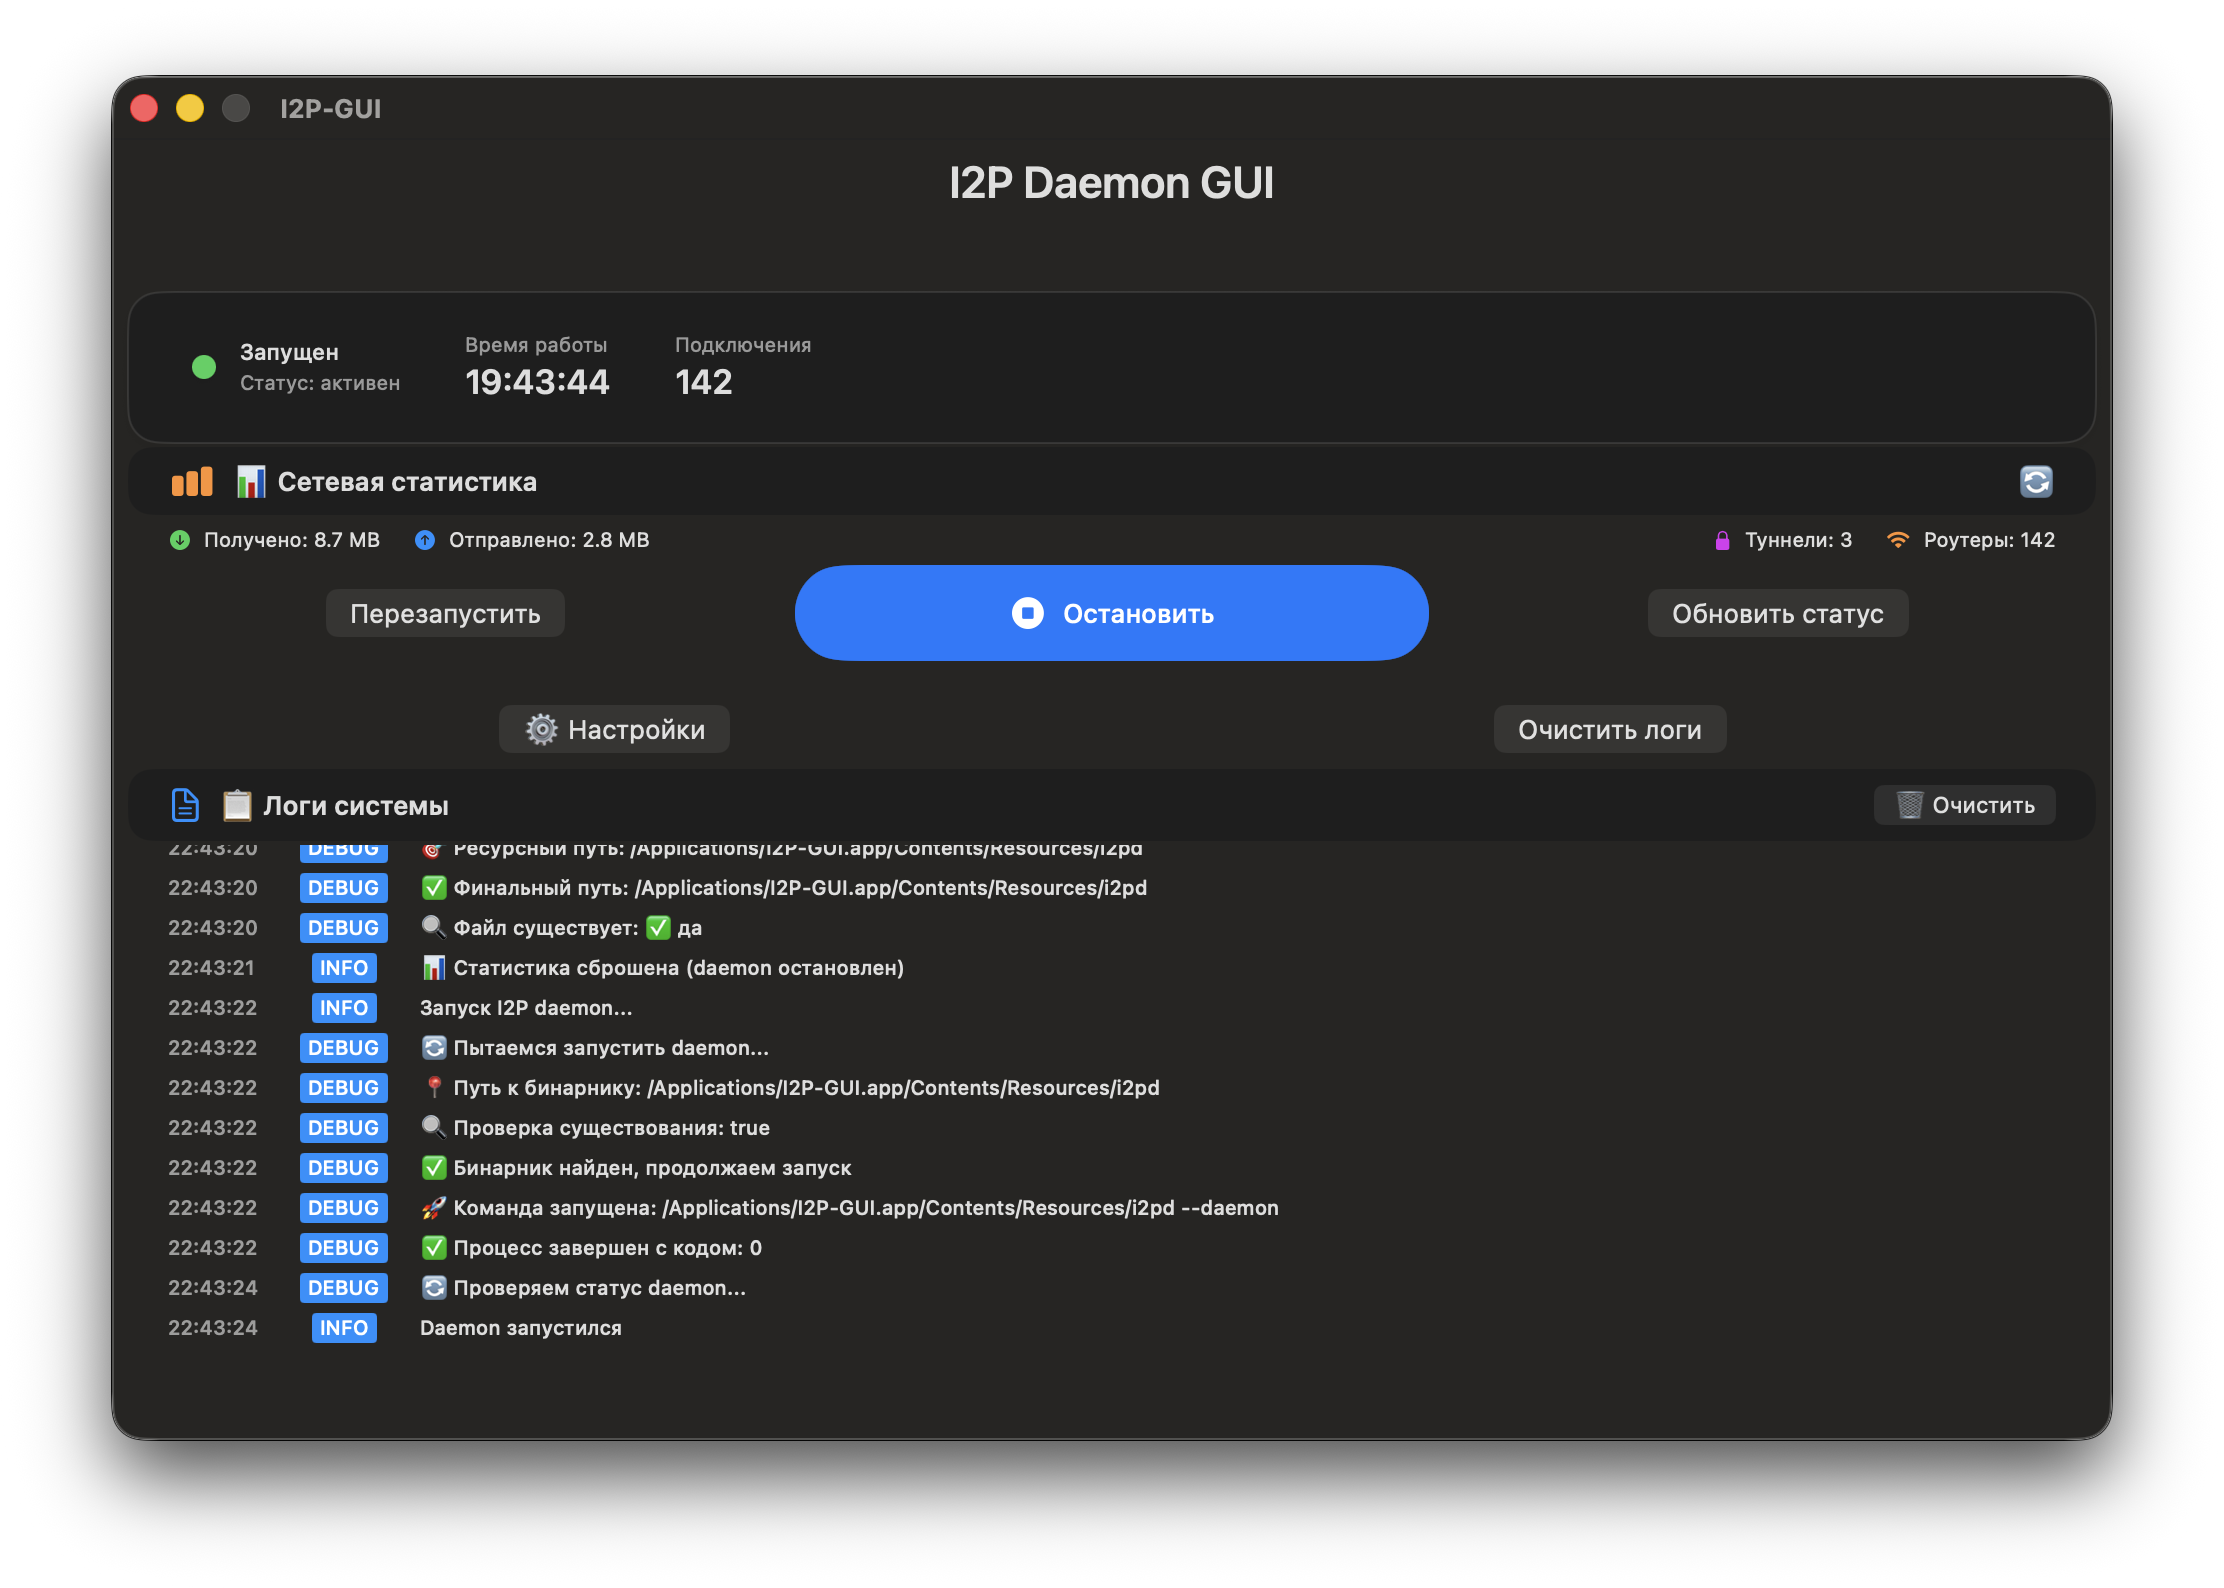
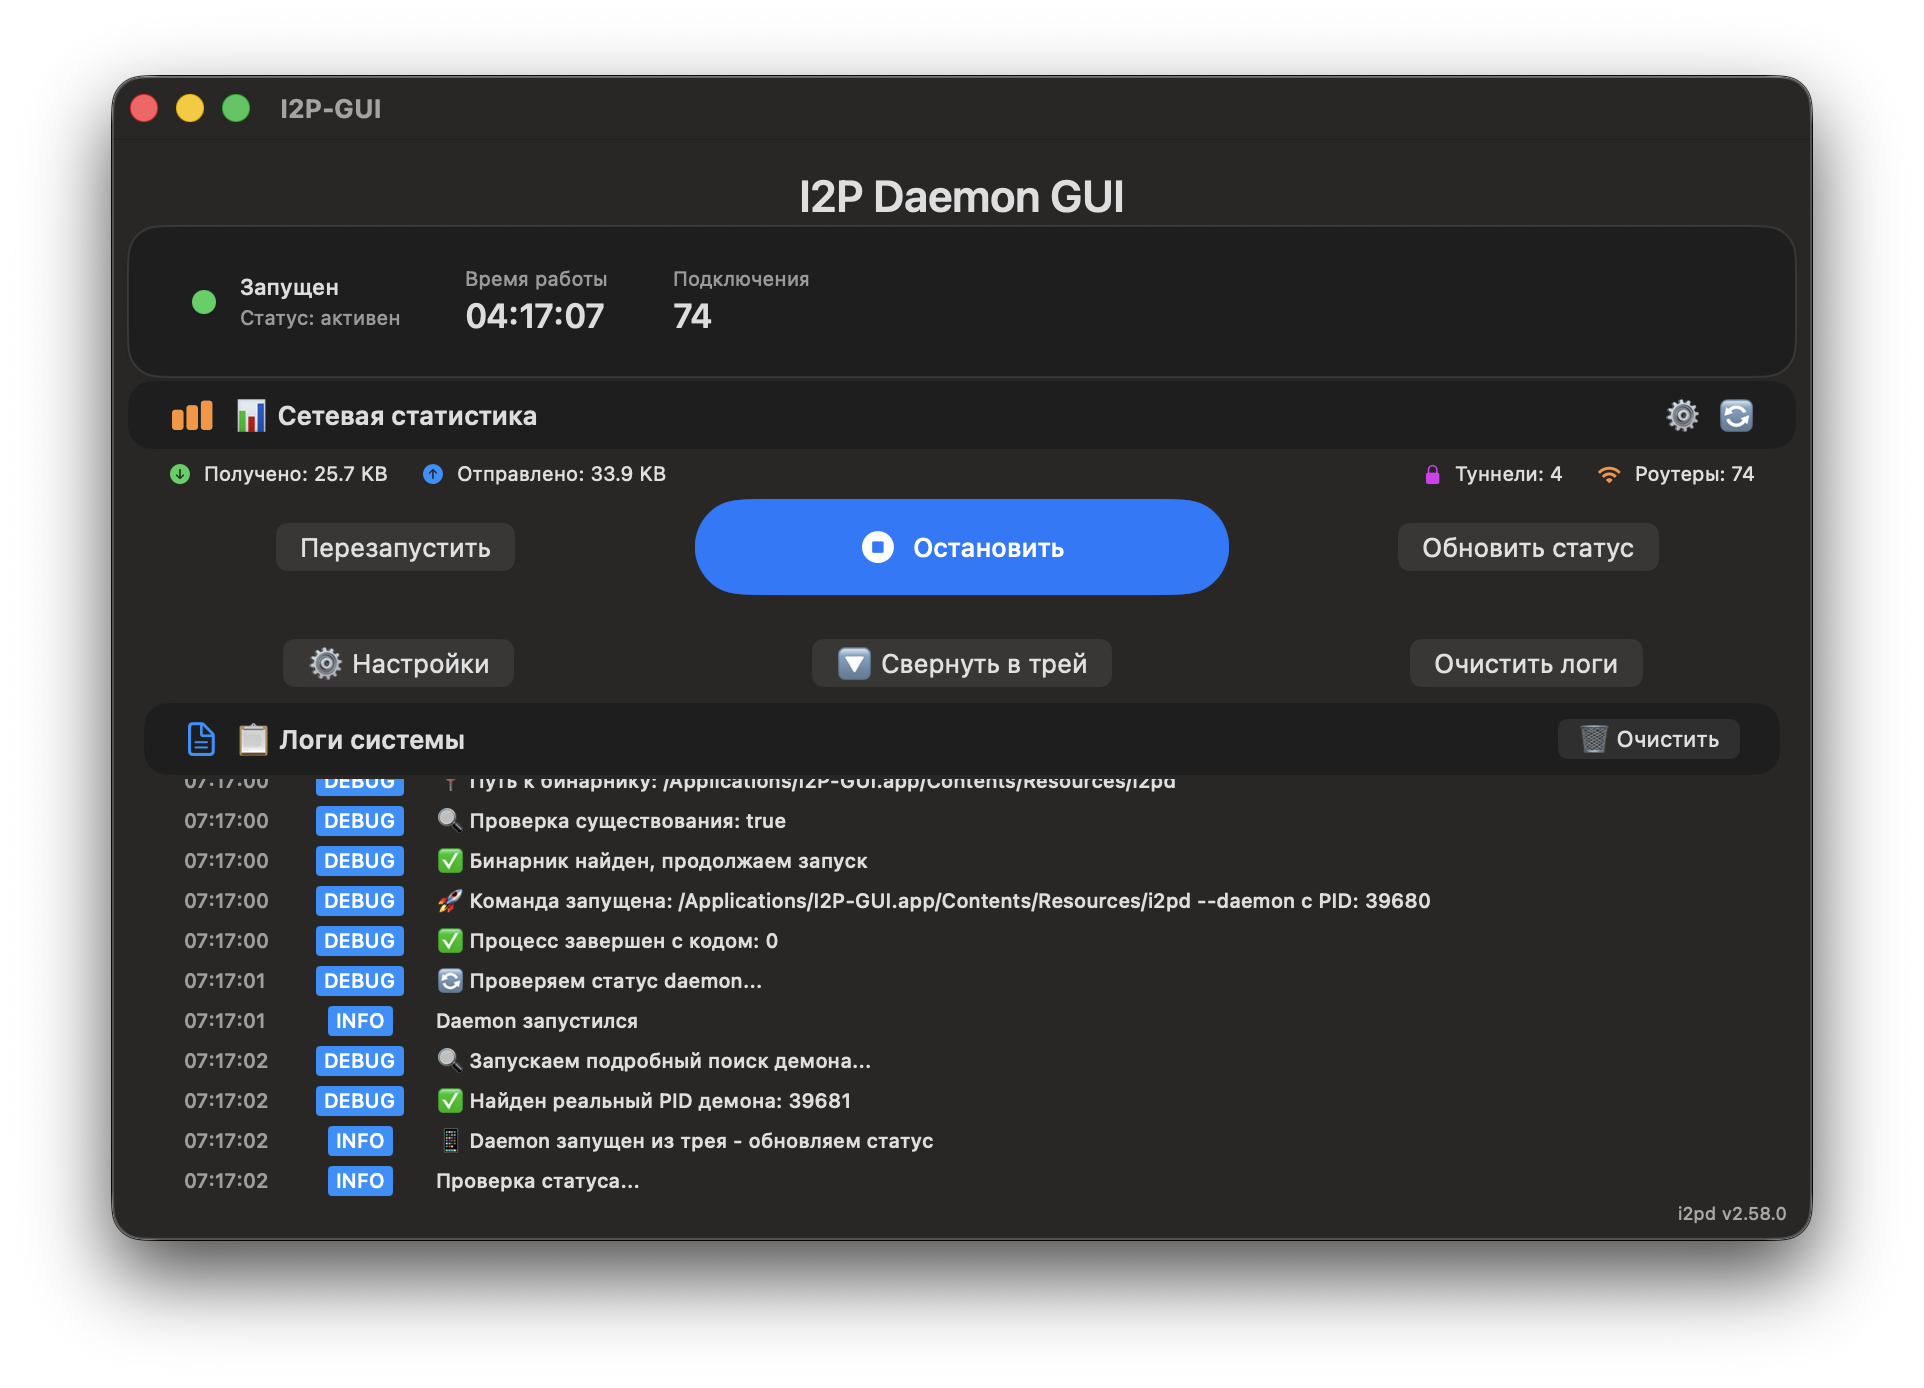
🎨 Адаптивный дизайн и улучшения UI
✅ Функциональные улучшения:
• Добавлены GitHub ссылки в настройки
• Исправлено переключение тем (мгновенное)
• Убрана секция 'О программе' (дублировала версию)
• Версия демона вынесена в футер основного окна

🎨 Дизайн и адаптивность:
• Окно стало адаптивным (800-850px ширина)
• Убрано фиксированное позиционирование
• Оптимизированы размеры для разных экранов
• Улучшена видимость версии в футере

📱 Компоненты:
• GitHub ссылка внизу настроек
• Видимая версия 'i2pd v2.58.0' в правом нижнем углу
• Сокращена пустая область окна
• Компактный и профессиональный интерфейс

diff --git a/Sources/i2pd-gui/AppCore.swift b/Sources/i2pd-gui/AppCore.swift
@@ -520,14 +520,14 @@ struct ContentView: View {
     
     var body: some View {
         VStack(spacing: 2) {
-            // Заголовок
+            // Заголовок (опущен ниже)
             Text("I2P Daemon GUI")
                 .font(.title)
                 .fontWeight(.semibold)
                 .foregroundColor(.primary)
                 .lineLimit(1)
                 .minimumScaleFactor(0.8)
-                .offset(y: -40)
+                .padding(.top, 15)
             
             // Статус сервера
             StatusCard(
@@ -684,12 +684,20 @@ struct ContentView: View {
                 }
                     }
                 }
-                .frame(maxHeight: 250) // Компактная высота логов
+                .frame(minHeight: 200, maxHeight: 300) // Адаптивная высота логов
             }
-            .padding(.horizontal, 8)
+            .padding(.horizontal, 16) // Адаптивные отступы
+            
+            // Версия демона в правом нижнем углу
+            Text("i2pd v2.58.0")
+                .font(.system(size: 9))
+                .foregroundColor(.primary.opacity(0.7))
+                .frame(maxWidth: .infinity, alignment: .trailing)
+                .padding(.trailing, 12)
+                .padding(.bottom, 8)
         }
-        .frame(width: 1000, height: 650)
-        .fixedSize()
+        .frame(minWidth: 750, maxWidth: .infinity, minHeight: 500, maxHeight: .infinity)
+        .frame(maxWidth: 850) // Максимально компактная ширина
         .onAppear {
             i2pdManager.checkStatus()
             
@@ -961,6 +969,16 @@ struct SettingsView: View {
                                 }
                                 .pickerStyle(.segmented)
                                 .frame(maxWidth: .infinity)
+                                .onChange(of: darkMode) { _, newValue in
+                                    // Применяем тему сразу при изменении
+                                    DispatchQueue.main.async {
+                                        if newValue {
+                                            NSApp.appearance = NSAppearance(named: .darkAqua)
+                                        } else {
+                                            NSApp.appearance = NSAppearance(named: .aqua)
+                                        }
+                                    }
+                                }
                             }
                             
                         }
@@ -1052,29 +1070,6 @@ struct SettingsView: View {
                                 .foregroundColor(.blue)
                                 .buttonStyle(.borderless)
                                 .frame(maxWidth: .infinity, alignment: .leading)
-                            }
-                        }
-                    }
-                    
-                    // О программе
-                    SettingsSection(title: "ℹ О программе", icon: "info.circle") {
-                        VStack(spacing: 12) {
-                            HStack {
-                                Text("Версия:")
-                                    .frame(width: 100, alignment: .leading)
-                                Text("2.58.0")
-                                    .foregroundColor(.secondary)
-                                    .fontWeight(.medium)
-                                Spacer()
-                            }
-                            
-                            HStack {
-                                Text("Разработчик:")
-                                    .frame(width: 100, alignment: .leading)
-                                Text("Vade")
-                                    .foregroundColor(.secondary)
-                                    .fontWeight(.medium)
-                                Spacer()
                             }
                         }
                     }
@@ -1314,6 +1309,16 @@ struct SettingsView: View {
                             
                         }
                     }
+                    
+                    // Простая ссылка на GitHub
+                    HStack {
+                        Spacer()
+                        Text("GitHub: https://github.com/MetanoicArmor/gui-i2pd")
+                            .font(.caption)
+                            .foregroundColor(.secondary)
+                        Spacer()
+                    }
+                    .padding(.top, 8)
                 }
                 .padding(.horizontal, 8)
                 .padding(.vertical, 16)
